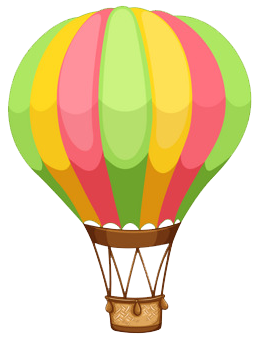
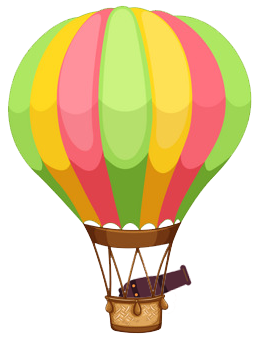
Added background and cannon to balloon

Changed region(s): [[0.4308, 0.7647, 0.7385, 0.8824]]

diff --git a/BalloonBattle/BalloonBattle.py b/BalloonBattle/BalloonBattle.py
@@ -17,6 +17,8 @@ GRAY     = ( 127, 127, 127)
 
 def main():
     pygame.init()
+    background = pygame.image.load("background.jpg")
+    background = pygame.transform.scale(background, (800, 600))
  
     width = 800
     height = 600
@@ -32,8 +34,9 @@ def main():
     clock = pygame.time.Clock()
 
     # Initialize the balloons
-    LeftBalloon  = Balloon(Vec2d(0, 0), 30, Vec2d(-1, 0), 0.05, BLUE, 9.8, pygame.K_w)
-    RightBalloon = Balloon(Vec2d(0, 0), 30, Vec2d(1, 0), 0.05, BLUE, 9.8, pygame.K_i)
+    LeftBalloon  = Balloon(Vec2d(0, 0), 30, Vec2d(-1.5, 0), 0.05, BLUE, 9.8, pygame.K_w)
+    RightBalloon = Balloon(Vec2d(0, 0), 30, Vec2d(1.5, 0), 0.05, BLUE, 9.8, pygame.K_i)
+    RightBalloon.image = pygame.transform.flip(RightBalloon.image, True, False)
 
     objects = []
     #objects.append(Circle(Vec2d(-1.5,0), Vec2d(1, 1), 1, 0.05, BLUE))
@@ -88,6 +91,7 @@ def main():
         # Drawing
         screen.fill(WHITE) # wipe the screen
         screen.blit(draw_screen, (0, 0)) # draw the trail semitransparent
+        screen.blit(background, (0,0))
         for obj in objects:
             obj.draw(screen, coords) # draw object to screen
             #obj.draw(draw_screen, coords) # add object to trail in draw_screen

diff --git a/BalloonBattle/Balloon.py b/BalloonBattle/Balloon.py
@@ -24,7 +24,7 @@ class Balloon:
         # add heat
         keys = pygame.key.get_pressed()
         if keys[self.upKey]:
-            print("Button Pressed")
+           # print("Button Pressed")
             self.heat += dt * 6;
         else:
             self.heat -= dt;
